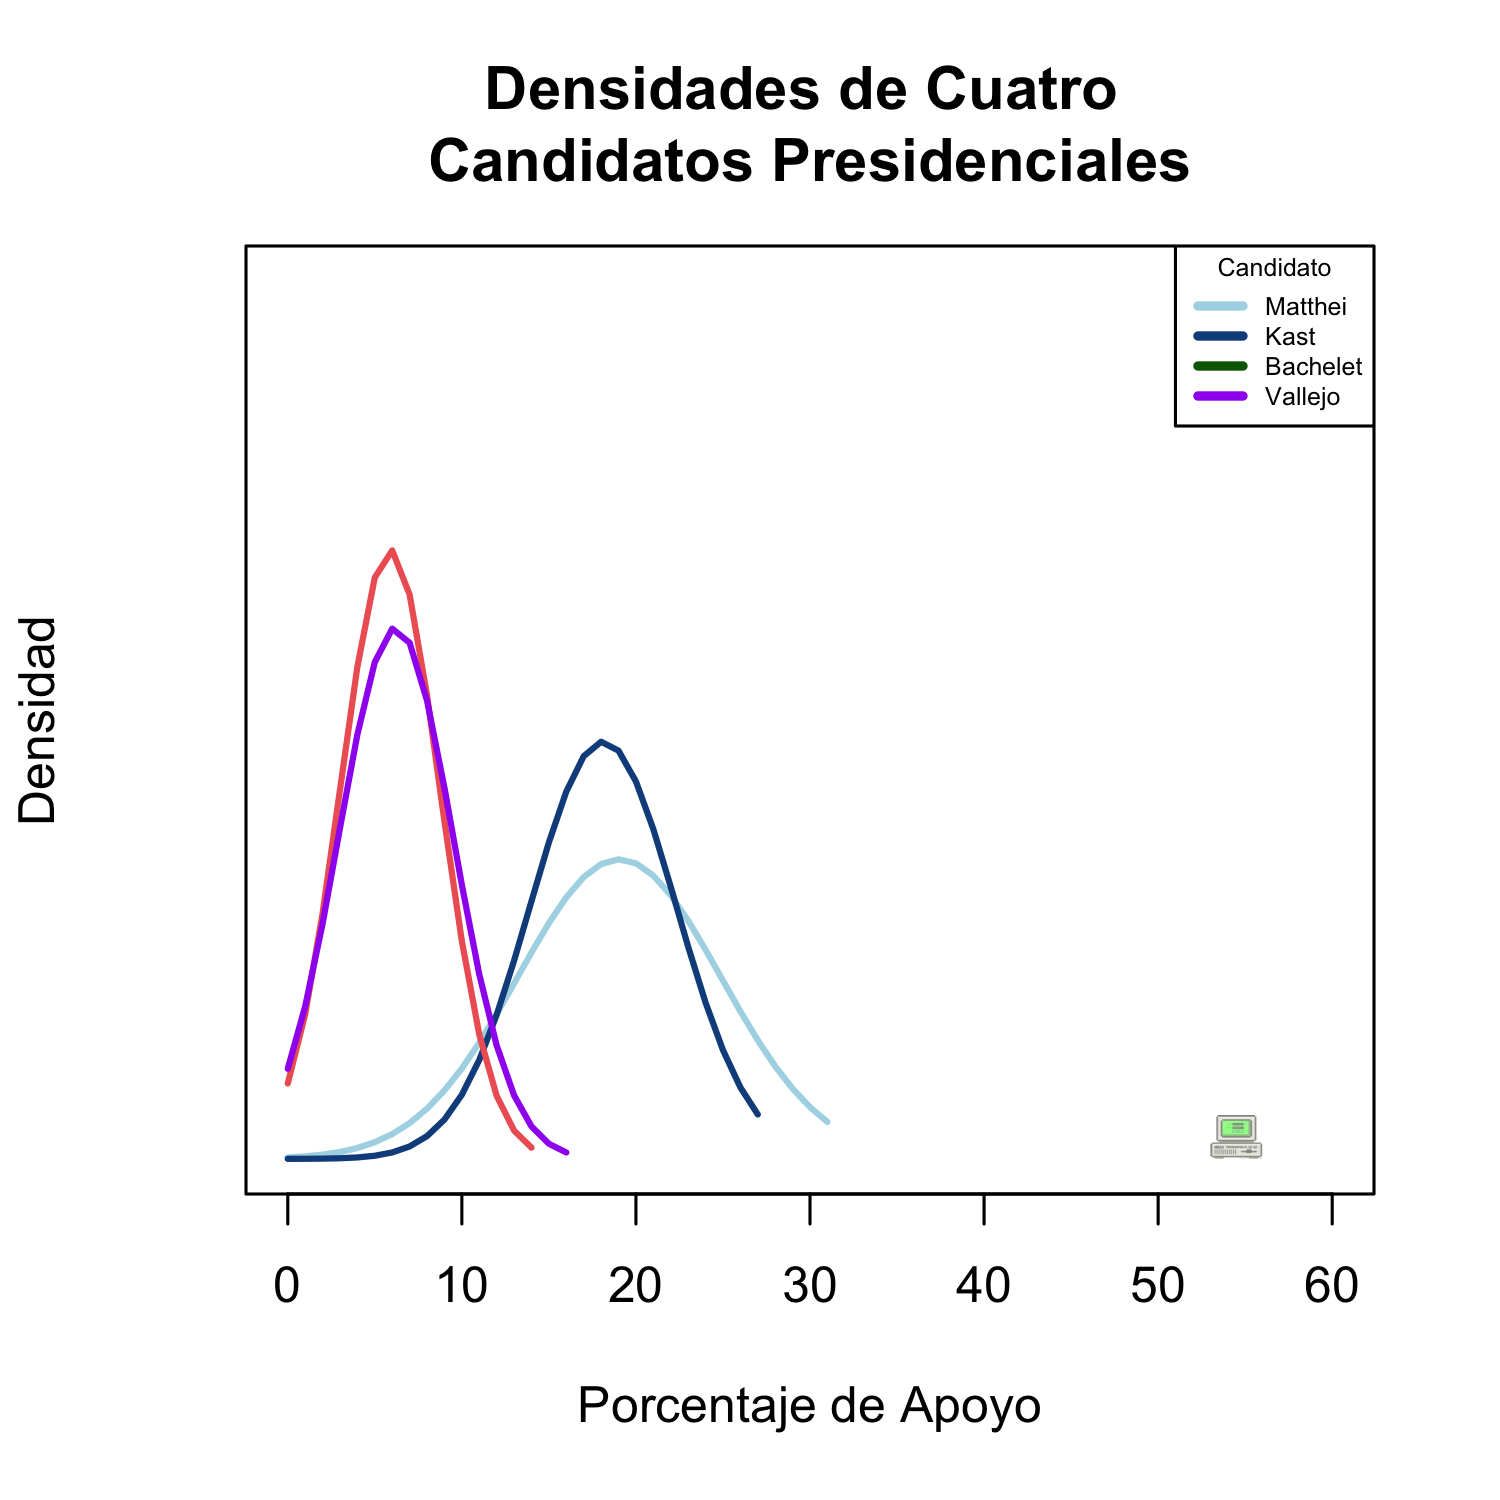
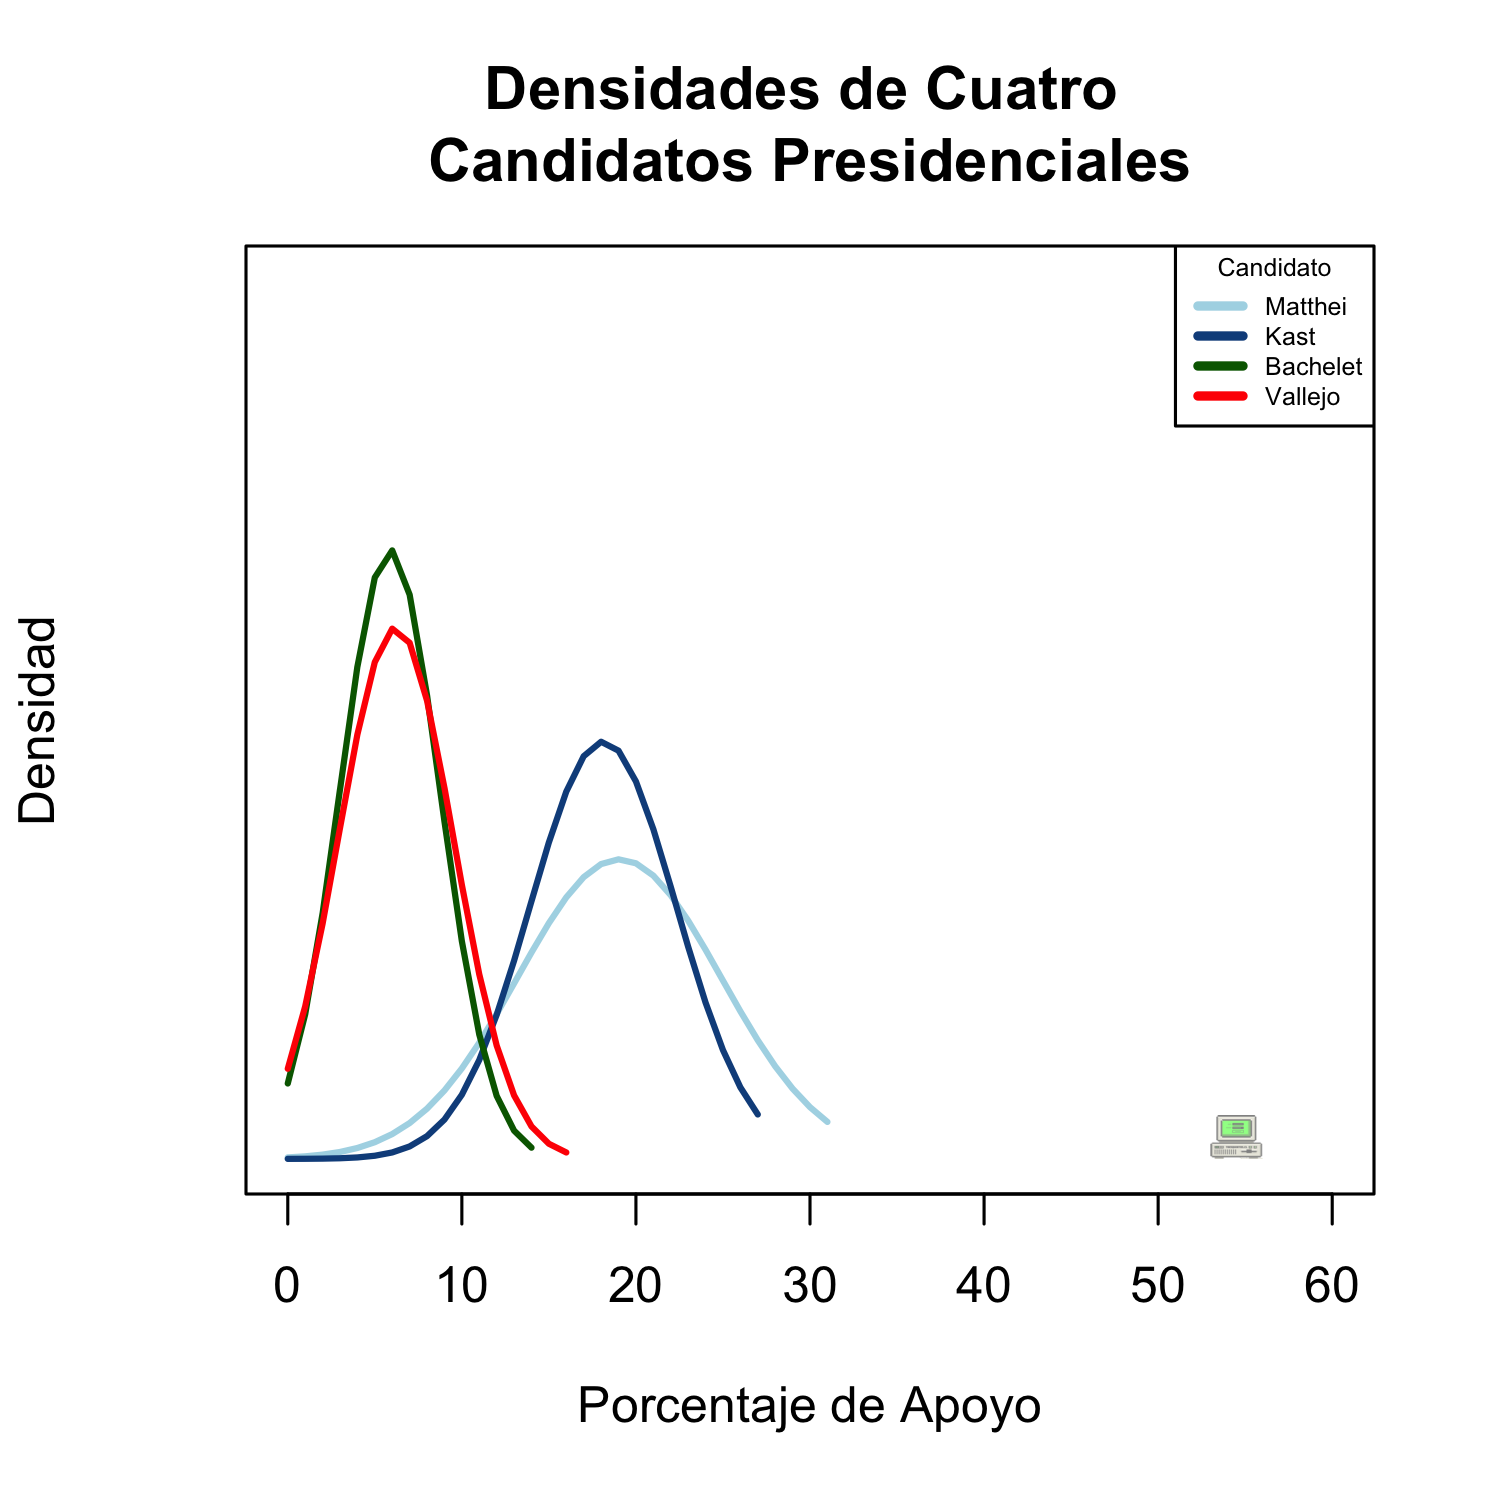
dd

Changed region(s): [[0.2147, 0.368, 0.368, 0.7667], [0.184, 0.6133, 0.2147, 0.736], [0.7973, 0.2453, 0.828, 0.276]]

diff --git a/_pages/2025d.md b/_pages/2025d.md
@@ -1,0 +1,52 @@
+---
+layout: single
+title: "2025"
+permalink: /2025d/
+description: Información electoral + análisis político. Tendencias elección presidencial 2025.
+author_profile: true
+---
+
+Tendencias elección presidencial de 2025.
+
+<a href="https://twitter.com/tresquintos?ref_src=twsrc%5Etfw" class="twitter-follow-button" data-show-count="false">Sigue @tresquintos</a><script async src="https://platform.twitter.com/widgets.js" charset="utf-8"></script>
+
+Descarga el reporte actualizado para el favorito: [![Español](/images/icons8-spain-40.png){:height="2%" width="2%"}](https://tresquintos.cl/reports/2025%20-%20Evelyn%20Matthei%20(es).pdf) + [![English (American)](/images/icons8-usa-40.png){:height="2%" width="2%"}](https://tresquintos.cl/reports/2025%20-%20Evelyn%20Matthei%20(en).pdf) + [![Italiano](/images/icons8-italy-40.png){:height="2%" width="2%"}](https://tresquintos.cl/reports/2025%20-%20Evelyn%20Matthei%20(it).pdf)
+
+## Tendencia
+
+[![Top-2](/images/main graphs/density - chile_2025 - Evelyn Matthei.png){:height="49%" width="49%"}](https://tresquintos.cl/reports/2025%20-%20Evelyn%20Matthei%20(es).pdf) [![Top-2](/images/main graphs/density - chile_2025 - Michelle Bachelet.png){:height="49%" width="49%"}](https://tresquintos.cl/reports/2025%20-%20Michelle%20Bachelet%20(es).pdf)
+
+[![Top-5](/images/main graphs/density - chile_2025 - José Antonio Kast.png){:height="32%" width="32%"}](https://tresquintos.cl/reports/2025%20-%20José%20Antonio%20Kast%20(es).pdf) [![Top-5](/images/main graphs/density - chile_2025 - Camila Vallejo.png){:height="32%" width="32%"}](https://tresquintos.cl/reports/2025%20-%20Camila%20Vallejo%20(es).pdf) [![Top-3](/images/main graphs/density - chile_2025 - Franco Parisi.png){:height="32%" width="32%"}](https://tresquintos.cl/reports/2025%20-%20Franco%20Parisi%20(es).pdf) 
+
+
+[![Top-3](/images/main graphs/density - chile_2025 - Carolina Tohá.png){:height="32%" width="32%"}](https://tresquintos.cl/reports/2025%20-%20Carolina%20Tohá%20(es).pdf) [![Top-3](/images/main graphs/density - chile_2025 - Johannes Kaiser.png){:height="32%" width="32%"}](https://tresquintos.cl/reports/2025%20-%20Johannes%20Kaiser%20(es).pdf) [![Top-3](/images/main graphs/density - chile_2025 - Rodolfo Carter.png){:height="32%" width="32%"}](https://tresquintos.cl/reports/2025%20-%20Rodolfo%20Carter%20(es).pdf)
+
+
+[![Top-10](/images/main graphs/chile_2025 - Daniel Jadue.png){:height="24%" width="24%"}](https://tresquintos.cl/images/main graphs/density - chile_2025 - Daniel Jadue.png) [![Top-10](/images/main graphs/chile_2025 - Gonzalo Winter.png){:height="24%" width="24%"}](https://tresquintos.cl/images/main graphs/chile_2025 - Gonzalo Winter.png) [![Top-10](/images/main graphs/density - chile_2025 - Claudio Orrego.png){:height="24%" width="24%"}](https://tresquintos.cl/images/main graphs/density - chile_2025 - Claudio Orrego.png) [![Top-10](/images/main graphs/density - chile_2025 - Leonardo Farkas.png){:height="24%" width="24%"}](https://tresquintos.cl/images/main graphs/chile_2025 - Leonardo Farkas.png)
+
+
+---
+
+<!-- NES -->
+<script src="/js/topsecret.js"></script>
+
+
+<!-- NES -->
+<style>
+.aligncenter {
+    text-align: center;
+}
+</style>
+<p class="aligncenter">
+    <img src="/images/nes.png" width="30" height="30" alt="konami" />
+</p>
+
+
+<!-- Favicon -->
+<link rel="apple-touch-icon" sizes="180x180" href="/apple-touch-icon.png">
+<link rel="icon" type="image/png" sizes="32x32" href="/favicon-32x32.png">
+<link rel="icon" type="image/png" sizes="16x16" href="/favicon-16x16.png">
+<link rel="manifest" href="/site.webmanifest">
+<link rel="mask-icon" href="/safari-pinned-tab.svg" color="#5bbad5">
+<meta name="msapplication-TileColor" content="#b91d47">
+<meta name="theme-color" content="#ffffff">
